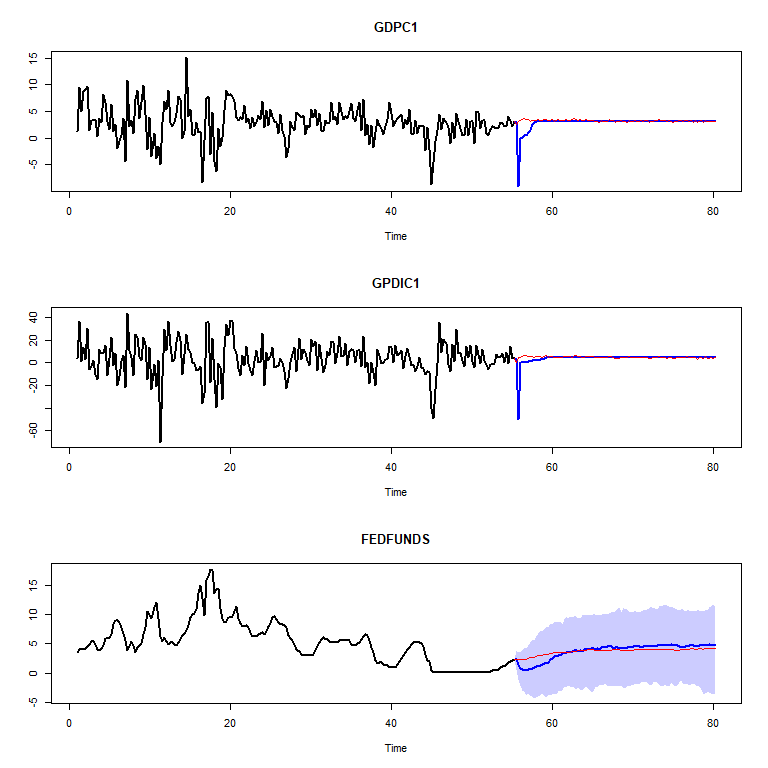
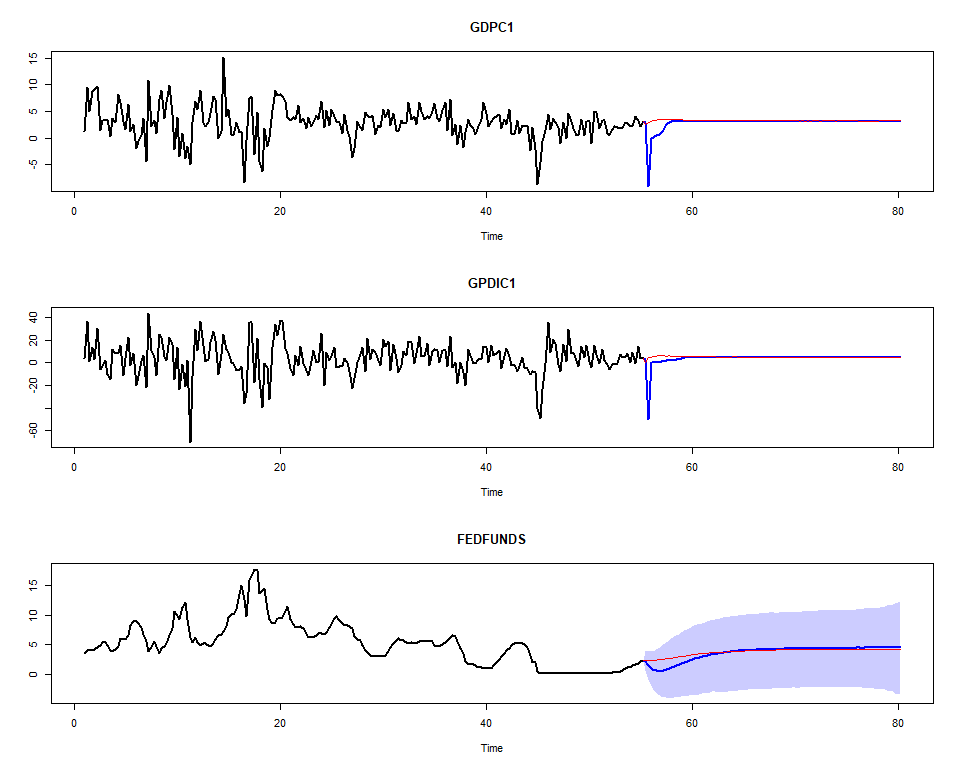
dsakoda

diff --git a/README.md b/README.md
@@ -968,7 +968,8 @@ GustafssonVillani2025plot(bvar_obj, plot_idx=c(4), xlim=c(39.25,58), ylim=c(-3.5
 
 Here I will show how the user can perform conditional forecasting. I
 follow the implementation used in the BEAR toolbox (see Algorithm 3.3.1
-in Dieppe, Legrand, and van Roye (2018)\].
+in Dieppe, Legrand, and van Roye (2018)\]. Note that for the structural
+shocks, we use Choleski factorisation as the identification scheme.
 
 We consider the same data as in the previous section. Now suppose we are
 interested in the forecast of FEDFUNDS conditional on a severe economic
@@ -990,9 +991,9 @@ horizon is 100 this time (this is not a serious exercise)
 bvar_obj$predict$H <- 100
 bvar_obj$predict$d_pred <- matrix(rep(1, 100))
 bvar_obj <- fit(bvar_obj,
-                iter = 1000,
-                warmup = 500,
-                chains = 1)
+                iter = 5000,
+                warmup = 1000,
+                chains = 4)
 ```
 
 Now we need set up our conditions/scenarios, i.e., which variables,
@@ -1045,9 +1046,9 @@ then converge to ……..
 
 ``` r
 round(tail(cond_fcst_plot$forecast[,3],1),2)
-#> [1] 4.77
+#> [1] 4.53
 smry$summaries$stan$Psi[3]
-#> [1] 4.39
+#> [1] 4.45
 ```
 
 the (estimated) steady state! Note that they are not exactly the same
